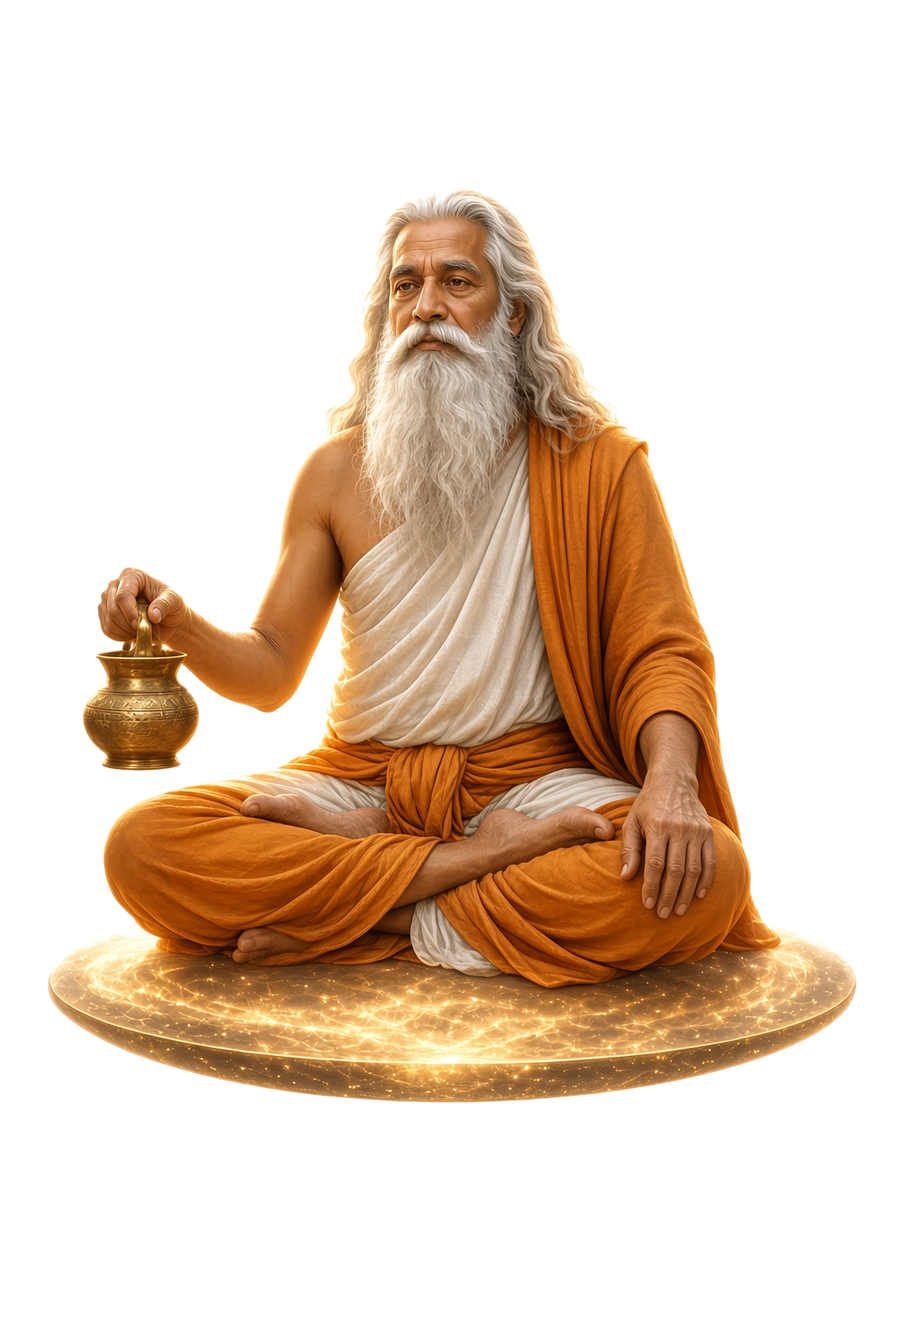
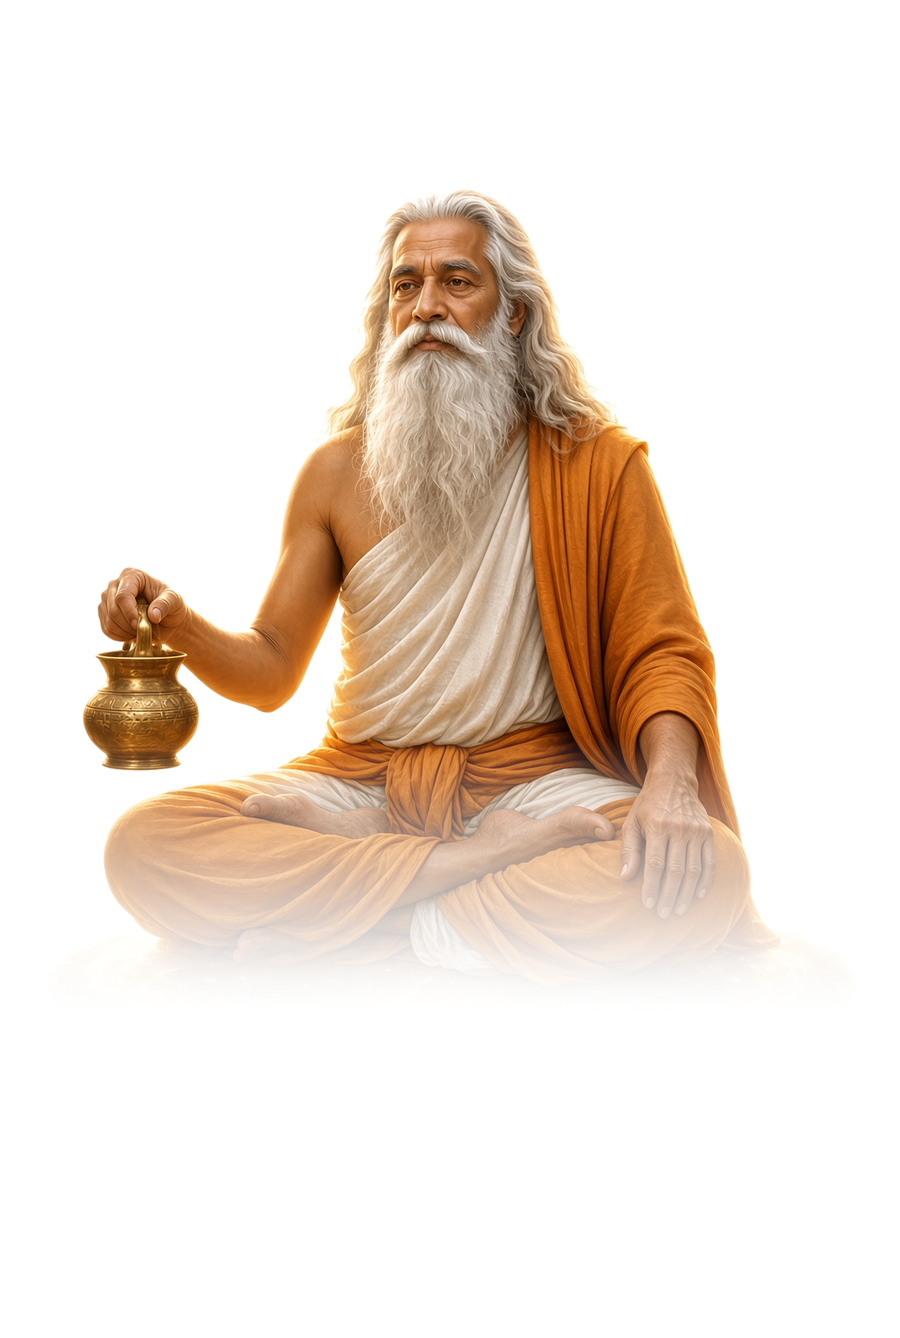
Larger ghostly rishis, denser two-layer starfield, stronger horizon glow
Responds to the latest round of feedback: keep the per-star positioning
from the last fix, but make the overall sky more beautiful/immersive.

1. Starfield density: replaced the single Stars layer with two --
   ~55000 small/faint points for texture plus ~7000 larger/brighter
   ones on top, so magnitude actually varies instead of one uniform
   layer just getting denser. A single layer at any count still reads
   flat; two layers is what gives it depth.

2. Rishi figures: sized up from 2.0x2.97 to 4.2x6.24 units and made
   substantially more transparent (baseline opacity 0.7 -> 0.42,
   selected 0.88 -> 0.62). They're now meant to overlap their
   neighbours somewhat -- like SkyGuide's constellation artwork -- and
   the lower opacity is what keeps overlapping figures reading as soft
   layered brushwork instead of stacking into solid shapes. Individual
   per-star anchoring from the previous fix is unchanged, just resized.

3. Faded out each portrait's glowing "seat platform" so the figures
   read as floating free rather than standing on a visible disc:
   applied a vertical alpha fade (full opacity above ~55% of image
   height, transparent by ~76%, power curve for a faster initial
   drop) to all seven processed PNGs. Re-verified visually that this
   doesn't clip legitimate detail (e.g. Angiras's held kalash, which
   sits well above the fade zone). Recomputed the star-anchor offset
   for the new effective content bottom (~65% of height post-fade).
[…]

Changed region(s): [[0.0311, 0.5516, 0.9644, 0.8274]]

diff --git a/src/components/sky-viewer/RishiOverlays.tsx b/src/components/sky-viewer/RishiOverlays.tsx
@@ -40,32 +40,31 @@ function RishiFigure({ star, alt, az }: RishiFigureProps) {
   const position = useMemo(() => altAzToVector3(alt, az, DOME_RADIUS - 1), [alt, az]);
 
   useFrame(({ clock }) => {
-    const breathe = 0.22 + Math.sin(clock.elapsedTime * 0.6 + star.ra) * 0.05;
+    const breathe = 0.16 + Math.sin(clock.elapsedTime * 0.6 + star.ra) * 0.04;
     const glowMaterial = glowRef.current?.material as { opacity: number } | undefined;
-    if (glowMaterial) glowMaterial.opacity = isActive ? 0.45 : breathe;
+    if (glowMaterial) glowMaterial.opacity = isActive ? 0.4 : breathe;
     const figureMaterial = figureRef.current?.material as { opacity: number } | undefined;
-    if (figureMaterial) figureMaterial.opacity = isActive ? 0.88 : 0.7;
+    if (figureMaterial) figureMaterial.opacity = isActive ? 0.62 : 0.42;
   });
 
-  // Sized against the real sky, not guessed: the seven Big Dipper stars
-  // sit only ~2.2-4.0 units apart from each other at DOME_RADIUS (verified
-  // numerically from their actual RA/Dec). A figure any bigger than that
-  // gap piles all seven into an indistinguishable heap — which is exactly
-  // what was happening before this fix. Each figure is now sized to sit
-  // at its own star and just touch its neighbours, like a row of
-  // individually-painted constellation figures, not one fused blob.
+  // Sized larger than the tight per-star gap on purpose: these are meant
+  // to read as large, ghostly constellation artwork layered across the
+  // sky (like SkyGuide's constellation figures) rather than small icons
+  // sitting next to their star. Neighbouring rishis now overlap somewhat
+  // -- that's fine and expected, because the low opacity (0.42 baseline,
+  // 0.62 when selected) lets overlaps blend softly instead of stacking
+  // into solid shapes. The individual per-star positioning from the
+  // previous pass is unchanged, only the size/opacity got bigger/softer.
   //
-  // The vertical anchor (+0.93) is also measured, not guessed: across all
-  // seven processed portraits, the visible (non-transparent) content
-  // bottoms out at ~81% of the image height on average. That's where the
-  // seated figure's base/lap actually is, so the star should land there
-  // -- not at the plane's geometric center, which would put the star
-  // floating in the empty margin above the head, and not near the very
-  // bottom edge either, which (before this fix) put it below the figure
-  // entirely, in transparent space past their feet.
+  // The vertical anchor is measured, not guessed: after fading out each
+  // portrait's glowing base platform (see the alpha-fade step in the
+  // image processing — a deliberate "let them float free" edit), the
+  // remaining visible content bottoms out at ~65% of image height on
+  // average. That's roughly the seated figure's lap/base, so the star
+  // lands there.
   return (
     <group
-      position={[position.x, position.y + 0.93, position.z]}
+      position={[position.x, position.y + 0.94, position.z]}
       onClick={
         star.nodeId
           ? (e) => {
@@ -79,12 +78,12 @@ function RishiFigure({ star, alt, az }: RishiFigureProps) {
     >
       <Billboard>
         <mesh ref={glowRef} position={[0, 0, -0.02]}>
-          <planeGeometry args={[2.9, 3.6]} />
+          <planeGeometry args={[5.6, 7.0]} />
           <meshBasicMaterial
             map={glowTexture}
             color={isActive ? "#ffe6b8" : RISHI_GLOW_COLOR}
             transparent
-            opacity={0.28}
+            opacity={0.22}
             depthWrite={false}
             toneMapped={false}
           />
@@ -93,10 +92,10 @@ function RishiFigure({ star, alt, az }: RishiFigureProps) {
           {/* Real character art is a 900x1338 portrait crop (~0.673
               aspect); match that here instead of forcing it into a
               square, which would squash the figures. */}
-          <planeGeometry args={figureTexture ? [2.0, 2.97] : [1.9, 2.47]} />
-          <meshBasicMaterial map={displayTexture} transparent opacity={0.7} depthWrite={false} toneMapped={false} />
+          <planeGeometry args={figureTexture ? [4.2, 6.24] : [4.0, 5.2]} />
+          <meshBasicMaterial map={displayTexture} transparent opacity={0.42} depthWrite={false} toneMapped={false} />
         </mesh>
-        <Html position={[0, -1.7, 0]} distanceFactor={40} center style={{ pointerEvents: "none" }}>
+        <Html position={[0, -3.4, 0]} distanceFactor={40} center style={{ pointerEvents: "none" }}>
           <div className="whitespace-nowrap text-xs tracking-wide text-amber-100/85">{star.indianName}</div>
         </Html>
       </Billboard>

diff --git a/src/components/sky-viewer/SkyGradient.tsx b/src/components/sky-viewer/SkyGradient.tsx
@@ -15,34 +15,43 @@ varying vec3 vDirection;
 uniform vec3 zenithColor;
 uniform vec3 horizonColor;
 uniform vec3 groundColor;
+uniform vec3 glowColor;
 uniform float exponent;
 void main() {
   float h = vDirection.y;
-  vec3 color;
+  vec3 base;
   if (h >= 0.0) {
     float t = pow(1.0 - h, exponent);
-    color = mix(zenithColor, horizonColor, t);
+    base = mix(zenithColor, horizonColor, t);
   } else {
     float t = pow(clamp(-h * 2.2, 0.0, 1.0), 0.55);
-    color = mix(horizonColor, groundColor, t);
+    base = mix(horizonColor, groundColor, t);
   }
+  // A concentrated glow band straddling the horizon line itself, on top
+  // of the broad gradient above — a slow gradient alone reads as "faint"
+  // no matter how bright its endpoint color is; a band that visibly
+  // peaks right at h=0 is what actually looks like atmospheric/light-
+  // pollution glow hugging the horizon.
+  float band = exp(-pow(h / 0.14, 2.0));
+  vec3 color = mix(base, glowColor, band * 0.85);
   gl_FragColor = vec4(color, 1.0);
 }
 `;
 
 /**
  * A large inverted sphere behind everything else, giving the dome a soft
- * atmospheric gradient — deep indigo/near-black at the zenith, a faint
- * warm-blue glow near the horizon (like real sky glow / light pollution),
- * fading to solid ground below. This is what actually reads as "a sky"
- * rather than a flat black void with dots on it.
+ * atmospheric gradient — deep indigo/near-black at the zenith, a bright
+ * warm-blue glow band hugging the horizon (like real sky glow / light
+ * pollution), fading to solid ground below. This is what actually reads
+ * as "a sky" rather than a flat black void with dots on it.
  */
 export function SkyGradient() {
   const uniforms = useMemo(
     () => ({
       zenithColor: { value: new Color("#050a1c") },
-      horizonColor: { value: new Color("#4a74b8") },
+      horizonColor: { value: new Color("#3f6bab") },
       groundColor: { value: new Color("#020208") },
+      glowColor: { value: new Color("#7fa3dd") },
       exponent: { value: 1.2 },
     }),
     [],

diff --git a/src/components/sky-viewer/Horizon.tsx b/src/components/sky-viewer/Horizon.tsx
@@ -29,7 +29,7 @@ const DIRECTIONS: Array<{ label: string; az: number }> = [
  * to a garbled position near screen-centre instead of just disappearing.
  */
 export function Horizon() {
-  const groundTexture = useMemo(() => makeGroundGlowTexture("#020208", "#3f6bab"), []);
+  const groundTexture = useMemo(() => makeGroundGlowTexture("#020208", "#7fa3dd"), []);
 
   return (
     <group>
@@ -42,11 +42,13 @@ export function Horizon() {
         <meshBasicMaterial map={groundTexture} depthWrite />
       </mesh>
 
-      {/* A little extra soft glow right at the boundary itself, additive
-          so it blends rather than hard-edges against the sky. */}
+      {/* A little extra soft glow right at the boundary itself, matched
+          to SkyGradient's horizon glow band so the ground-side and
+          sky-side glow read as one continuous ring, not two different
+          effects meeting at a seam. */}
       <mesh rotation={[-Math.PI / 2, 0, 0]} position={[0, -0.02, 0]}>
-        <ringGeometry args={[DOME_RADIUS - 8, DOME_RADIUS + 3, 64]} />
-        <meshBasicMaterial color="#3f6bab" transparent opacity={0.32} depthWrite={false} side={DoubleSide} />
+        <ringGeometry args={[DOME_RADIUS - 9, DOME_RADIUS + 3, 64]} />
+        <meshBasicMaterial color="#7fa3dd" transparent opacity={0.4} depthWrite={false} side={DoubleSide} />
       </mesh>
 
       {DIRECTIONS.map(({ label, az }) => {

diff --git a/src/components/sky-viewer/SkyViewer.tsx b/src/components/sky-viewer/SkyViewer.tsx
@@ -31,10 +31,13 @@ export function SkyViewer() {
       <SkyGradient />
       {/* Dense background starfield (unnamed, unclickable field stars —
           distinct from the ~60 catalog stars in StarField, which carry
-          the real Indian names/mythology). Pushed well up from the
-          original 5000 so the sky reads as genuinely dense/realistic
-          rather than sparse and empty. */}
-      <Stars radius={DOME_RADIUS + 20} depth={40} count={20000} factor={2.2} saturation={0} fade speed={0.15} />
+          the real Indian names/mythology). Two layers instead of one,
+          so magnitude actually varies: a very dense field of small faint
+          points for texture, plus a sparser layer of bigger, brighter
+          ones standing out above it — a single uniform layer reads flat
+          no matter how high the count goes. */}
+      <Stars radius={DOME_RADIUS + 20} depth={45} count={55000} factor={1.1} saturation={0} fade speed={0.12} />
+      <Stars radius={DOME_RADIUS + 15} depth={35} count={7000} factor={3.0} saturation={0} fade speed={0.18} />
 
       <group onPointerMissed={() => select(null)}>
         <StarField stars={STAR_CATALOG} />
